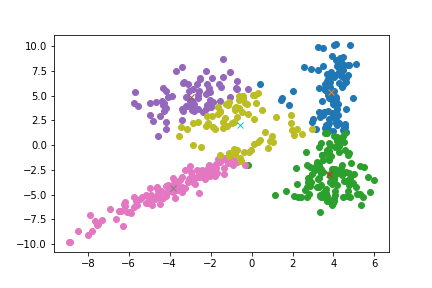
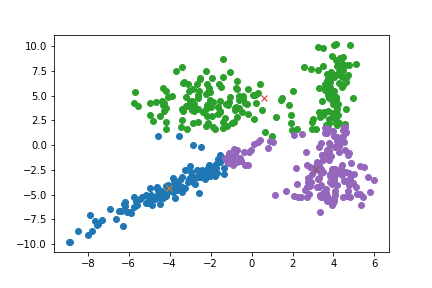
New initialization

Changed region(s): [[0.1505, 0.125, 0.8727, 0.875], [0.1806, 0.7188, 0.2106, 0.75]]

diff --git a/kmeans2.py b/kmeans2.py
@@ -5,15 +5,54 @@ Created on Sun Feb 26 12:08:35 2017
 @author: Calixi
 """
 
-import pandas as pd
+import CSVreader
 import matplotlib.pyplot as plt
 import numpy as np
+import random
 
+#A distance to not take in account the last index (which is the cluster number)
 def dist(array1,array2):
     point1 = array1[:-1]
     point2 = array2[:-1]
     return np.linalg.norm(point1-point2)
+
+def initialization_plus_plus(list_points,k):
     
+    nb_points = len(list_points)
+    v = np.arange(nb_points)/nb_points
+    list_points[:,-1] = v
+               
+    list_means = [[] for i in range(k)]
+    
+    for i in range(k): 
+        total_dst = 0          
+        dst_square_total = 0
+        #Choice of a new seed
+        value_chosen = random.uniform(0,1)
+        idx_point = 0
+        value = 0
+        while (value<value_chosen) and (idx_point+1<nb_points):
+            idx_point +=1
+            value = list_points[idx_point][-1]
+        list_means[i] = list_points[idx_point]
+        
+        #Calculation of distances for each point in order to find the probabilities to choose each point
+        for point in list_points:
+            minimum = dist(list_means[0],point)
+            for mean in list_means:
+                if (len(mean)!=0):
+                    dst = dist(mean,point)
+                    if (dst<minimum):
+                        minimum = dst
+            total_dst += dst**2
+            point[-1] = total_dst
+            dst_square_total += dst**2
+        
+        list_points[:,-1] = list_points[:,-1]/dst_square_total
+                   
+    return list_means
+
+#Cluster attribution
 def step_E(list_points,list_means):
     point_number = 0
     for point in list_points:
@@ -26,19 +65,20 @@ def step_E(list_points,list_means):
                 minimum = dst
                 cluster_number = mean_number
             mean_number+=1
-        list_points[point_number][dimension] = cluster_number
+        list_points[point_number][-1] = cluster_number
         point_number+=1
         
-        
+
+#Mean positions calculation        
 def step_M(list_points,list_means):
     k = len(list_means)
     length = len(list_points)
     for j in range(k):
-        list_set = [list_points[i] for i in range(length) if (list_points[i][dimension]==j)]
+        list_set = [list_points[i] for i in range(length) if (list_points[i][-1]==j)]
         list_means[j] = np.mean(list_set, axis=0)
         
-#Only for two dimension vectors
-def create_graph(list_points,list_means,t):
+#Only for 2D vectors
+def create_graph(k,list_points,list_means,t):
     x_points = [[] for i in range(k)]
     y_points = [[] for i in range(k)]
     
@@ -47,7 +87,7 @@ def create_graph(list_points,list_means,t):
     
     for i in range(len(list_means)):
         for point in list_points:
-            if (point[dimension]==i):
+            if (point[-1]==i):
                 x_points[i].append(point[0])
                 y_points[i].append(point[1])
 
@@ -58,17 +98,25 @@ def create_graph(list_points,list_means,t):
     plt.savefig(titre)
 
 def k_means(list_points,k):
-    #initialisation
-
-    idx = np.random.randint(nb_points,size = k)
-    list_means = list_points[idx,:]
+    #initialization
+#    
+#    nb_points = len(list_points)
+#    idx = np.random.randint(nb_points,size = k)
+#    list_means = list_points[idx,:]
+#    list_means_pre = list_means.copy()
+#    
+#    resume_iter = True
+    
+    #K-means++ initialization
+               
+    list_means = initialization_plus_plus(list_points,k)
     list_means_pre = list_means.copy()
     
-    resume_iter = True 
-       
+    resume_iter = True  
+    t=0       
+    
     #K-means beginning
     
-    t=0
     while resume_iter:
                         
         step_E(list_points,list_means)        
@@ -76,25 +124,17 @@ def k_means(list_points,k):
         step_M(list_points,list_means)
         
     #Graphic part            
-        create_graph(list_points,list_means,t)
+        create_graph(k,list_points,list_means,t)
         
-        t+=1
-        
+        t+=1        
         resume_iter = not np.array_equal(list_means,list_means_pre)
 
 #Lecture du fichier
 
-fichier = pd.read_csv("D:/Mines/Cours/Stages/Stage_ENS/Problem/EMGaussienne.data",sep = " ")
-matrix = fichier.as_matrix()
-nb_points = len(matrix)
-dimension = len(matrix[0])
-
-list_points = np.zeros((nb_points,dimension+1))
-list_points[:,:-1] = matrix
-
+list_points = CSVreader.read("D:/Mines/Cours/Stages/Stage_ENS/Problem/EMGaussienne.data")
 #k-means
 
-k=5
+k=3
 k_means(list_points,k)
 
     

diff --git a/CSVreader.py b/CSVreader.py
@@ -1,0 +1,19 @@
+# -*- coding: utf-8 -*-
+"""
+Created on Sun Feb 26 22:02:09 2017
+
+@author: Calixi
+"""
+
+import pandas as pd
+import numpy as np
+
+def read(file_name):
+    fichier = pd.read_csv(file_name,sep = " ")
+    matrix = fichier.as_matrix()
+    nb_points = len(matrix)
+    dimension = len(matrix[0])
+    
+    list_points = np.zeros((nb_points,dimension+1))
+    list_points[:,:-1] = matrix
+    return list_points
